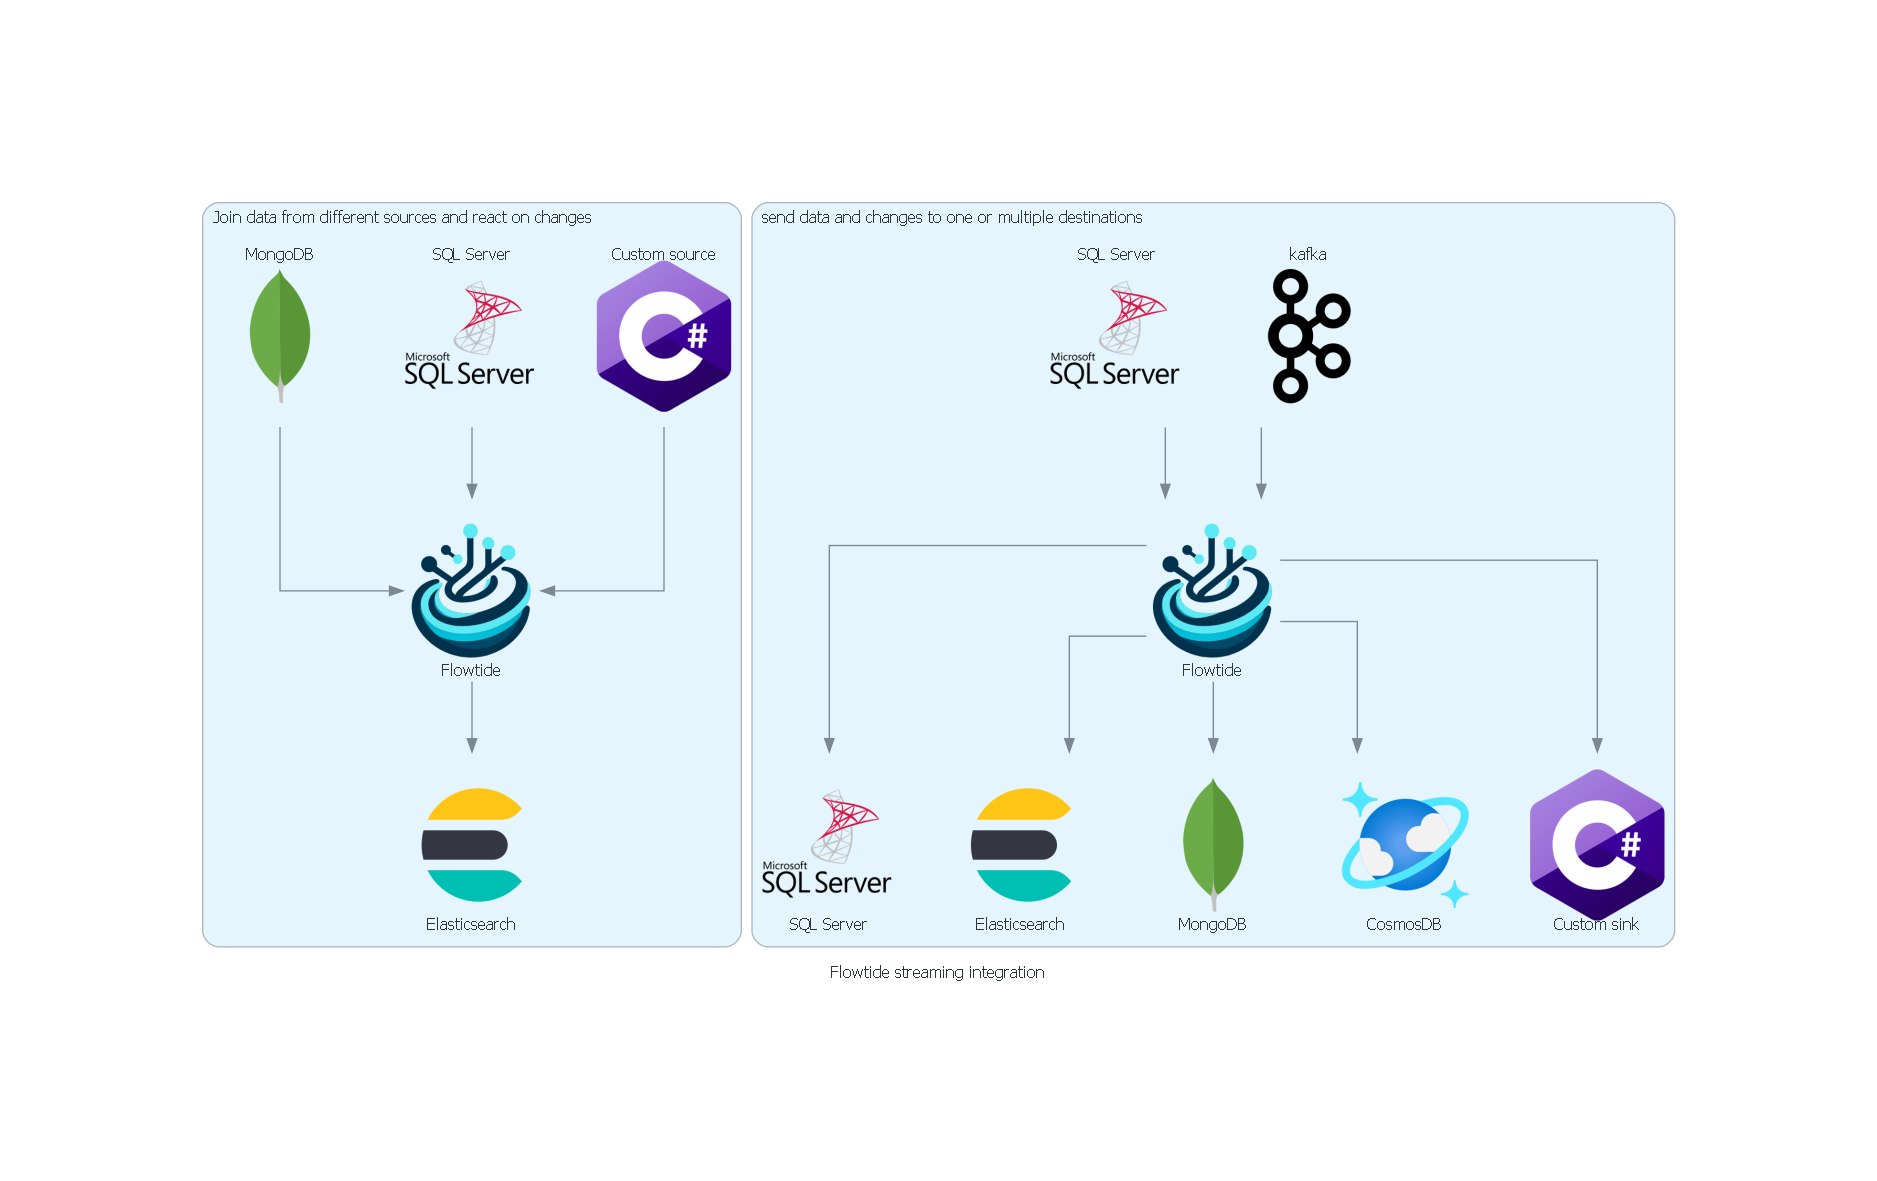
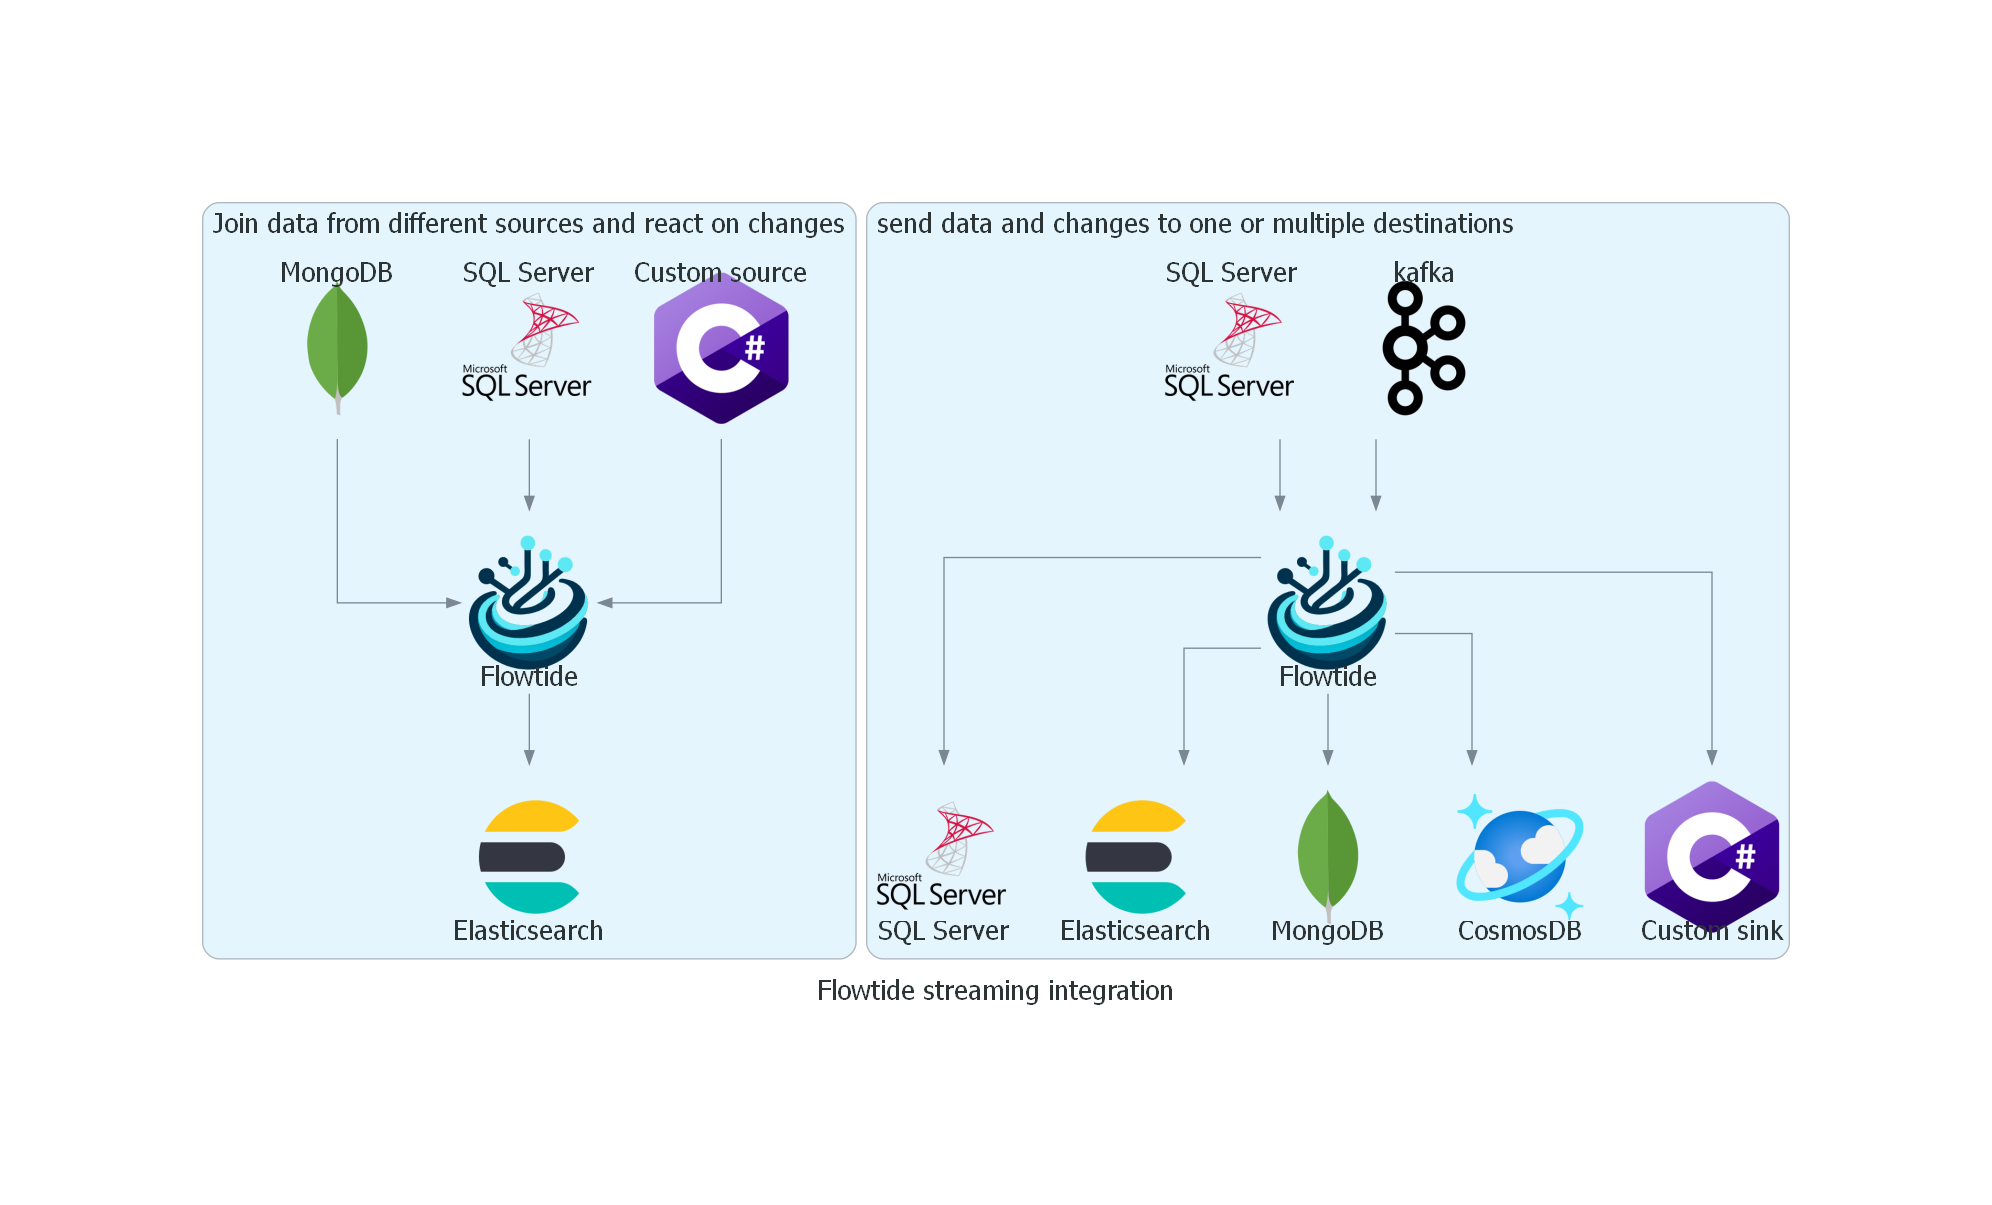
Increase font size of diagram text

diff --git a/images/diagram.py b/images/diagram.py
@@ -11,27 +11,23 @@ from diagrams.azure.database import CosmosDb
 from diagrams.programming.language import Csharp
 
 graph_attr = {
-    "fontsize": "12",
-    "labeldistance": "10",
-    "labelfloat": "true",
-    # "compund": "True"
+    "fontsize": "20",
 }
 
 node_attr = {
-    "height": "10.6",
-    "fontsize": "12"
+    "fontsize": "20"
 }
 
 
 with Diagram("Flowtide streaming integration", show=False, direction="TB", graph_attr=graph_attr, node_attr=node_attr):
 
-    with Cluster("Join data from different sources and react on changes"):
+    with Cluster("Join data from different sources and react on changes", graph_attr=graph_attr):
         flowtide = Custom("Flowtide", "../logo/flowtidelogo_256x256.png", labelloc="b")
         MongoDB("MongoDB", labelloc="t") >> flowtide
         MSSQL("SQL Server", labelloc="t") >> flowtide >> Elasticsearch("Elasticsearch")
         Csharp("Custom source", labelloc="t") >> flowtide
 
-    with Cluster("send data and changes to one or multiple destinations"):
+    with Cluster("send data and changes to one or multiple destinations", graph_attr=graph_attr):
         flowtide = Custom("Flowtide", "../logo/flowtidelogo_256x256.png", labelloc="b")
         MSSQL("SQL Server", labelloc="t") >> flowtide >> MSSQL("SQL Server", labelloc="b")
         flowtide >> Elasticsearch("Elasticsearch")
